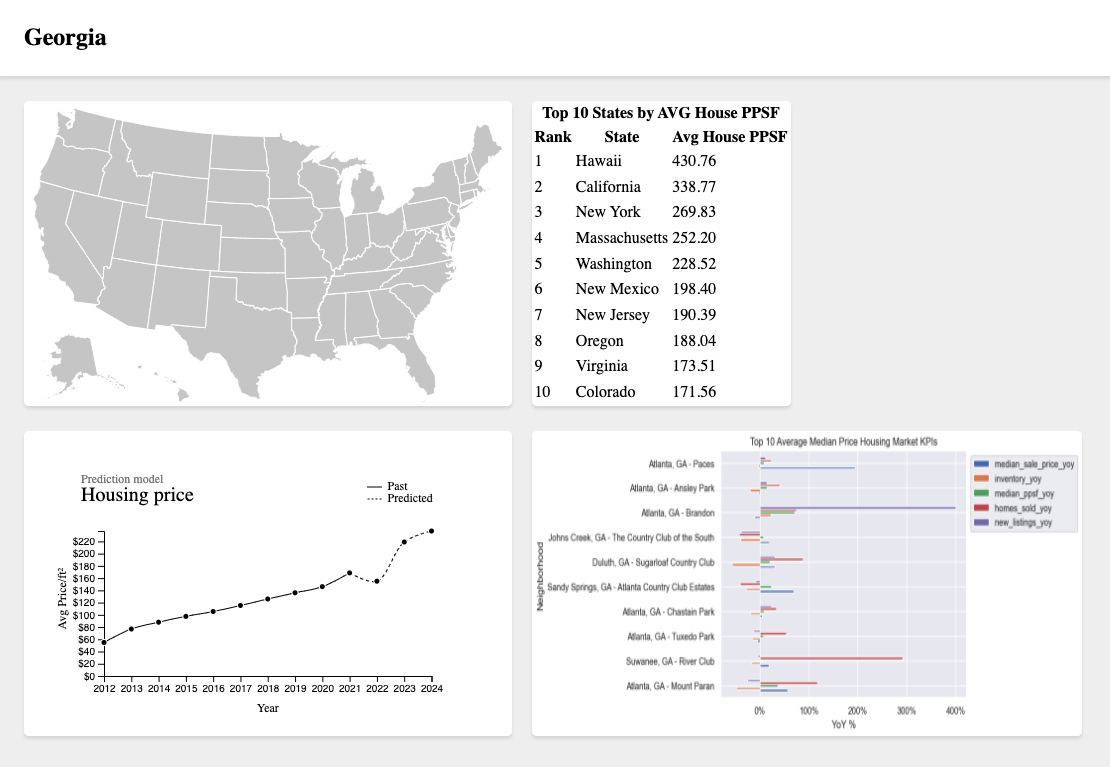
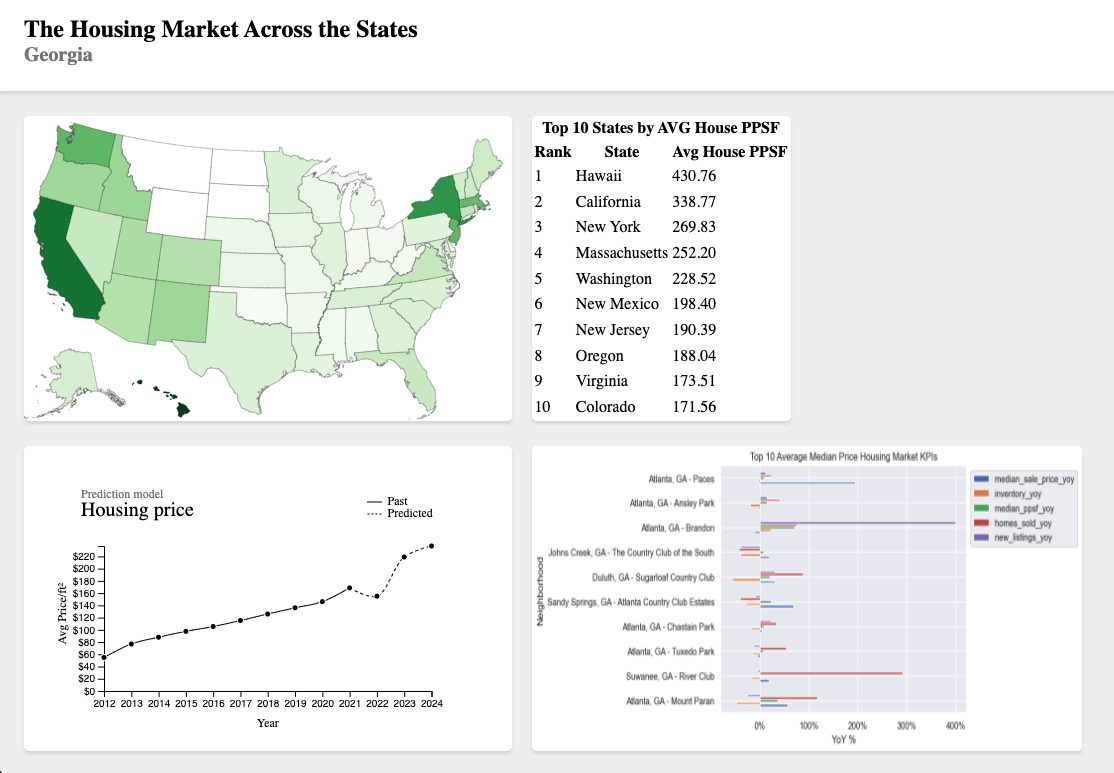
Add coloring to the states, fix Readme

diff --git a/index.html b/index.html
@@ -26,18 +26,21 @@
             font-size: 24px;
         }
 
+        .header h3 {
+            margin: 0;
+            font-size: 20px;
+        }
+
         body>*:not(.header) {
             margin: 25px;
         }
 
         .mapPath {
-            fill: #ccc;
-            stroke: #ffffff;
-            stroke-width: 1px;
+            stroke: #000000;
+            stroke-width: 0.25px;
         }
 
         path {
-            fill: #ffffff;
             stroke: #000000;
             stroke-width: 1px;
         }
@@ -101,6 +104,7 @@
 <body>
     <div class="header" id="header">
         <h1>The Housing Market Across the States</h1>
+        <h3></h3>
     </div>
     <div class="mapContainer" id="mapContainer">
     </div>
@@ -130,14 +134,36 @@
             console.log(state_ppsf);
             console.log(usStates);
 
+            const minValue = state_ppsf.reduce((min, obj) => {
+                const value = +obj[2021];
+                if (min === null || value < min) {
+                    return value;
+                } else {
+                    return min;
+                }
+            }, null);
+            const maxValue = state_ppsf.reduce((max, obj) => {
+                const value = +obj[2021];
+                if (max === null || value > max) {
+                    return value;
+                } else {
+                    return max;
+                }
+            }, null);
+            const colorScale = d3.scaleSequential(d3.interpolateGreens)
+                .domain([minValue, maxValue]);
+
             const scaleFunction = d3.geoTransform({
                 point: function (x, y) {
                     this.stream.point(x / 2, y / 2);
                 }
             });
-
-            // Define a path generator with scaled projection
             const path = d3.geoPath().projection(scaleFunction);
+
+            const header = document.getElementById("header");
+            const h3Element = header.querySelector("h3");
+            h3Element.innerText = "State";
+            h3Element.style.color = "white";
 
             const state = svg.append("g")
                 .attr("stroke", "#444")
@@ -147,6 +173,15 @@
                 .enter().append("path")
                 .attr("d", path)
                 .attr("class", "mapPath")
+                .attr("fill", d => {
+                    let ppsf_value = null;
+                    state_ppsf.forEach(function (state_obj) {
+                        if (state_obj.state == d.properties.name) {
+                            ppsf_value = state_obj[2021]
+                        }
+                    });
+                    return ppsf_value ? colorScale(ppsf_value) : "white";
+                })
                 .on("click", function (d) {
                     deleteGraphs();
                     setHeader(d.properties.name);
@@ -166,8 +201,9 @@
             /* Sets the Header Value */
             function setHeader(state) {
                 const header = document.getElementById("header");
-                const h1Element = header.querySelector("h1");
-                h1Element.innerText = state;
+                const h3Element = header.querySelector("h3");
+                h3Element.innerText = state;
+                h3Element.style.color = "grey";
             }
 
             /* Create ppsf Line */
